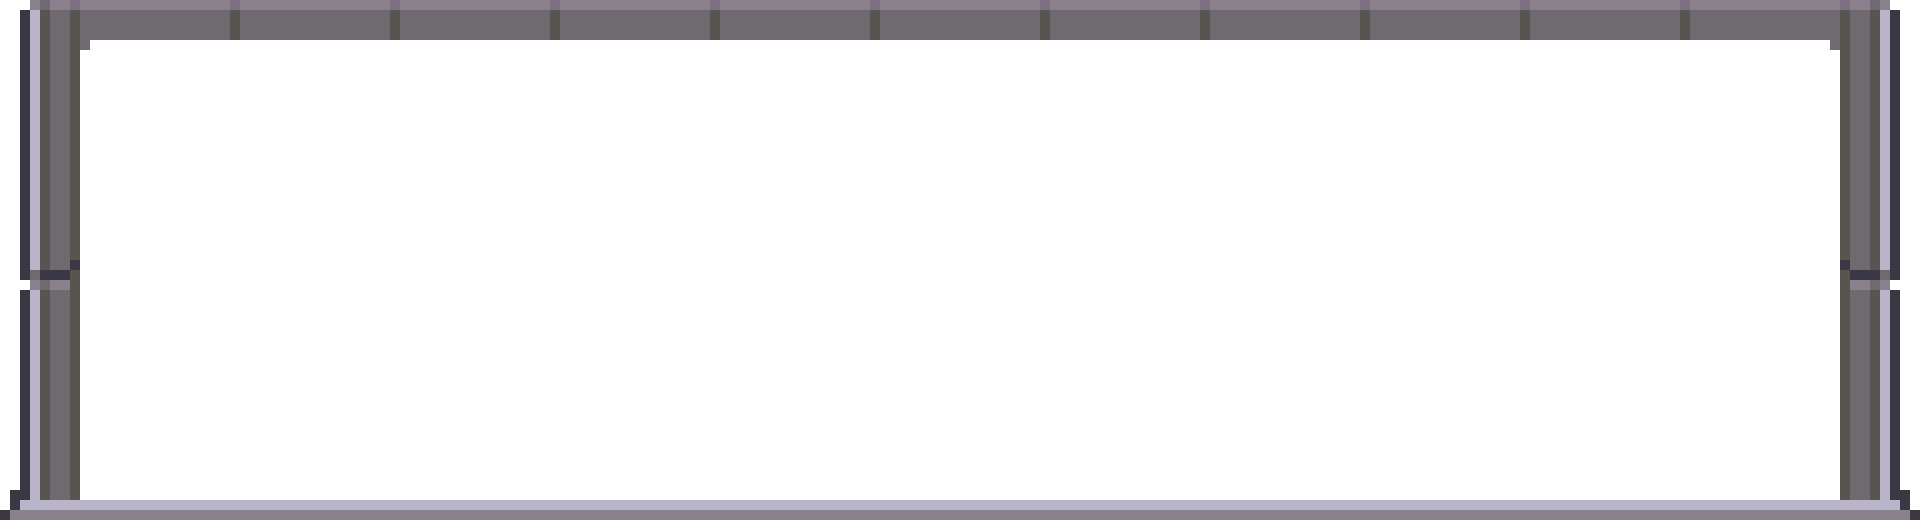
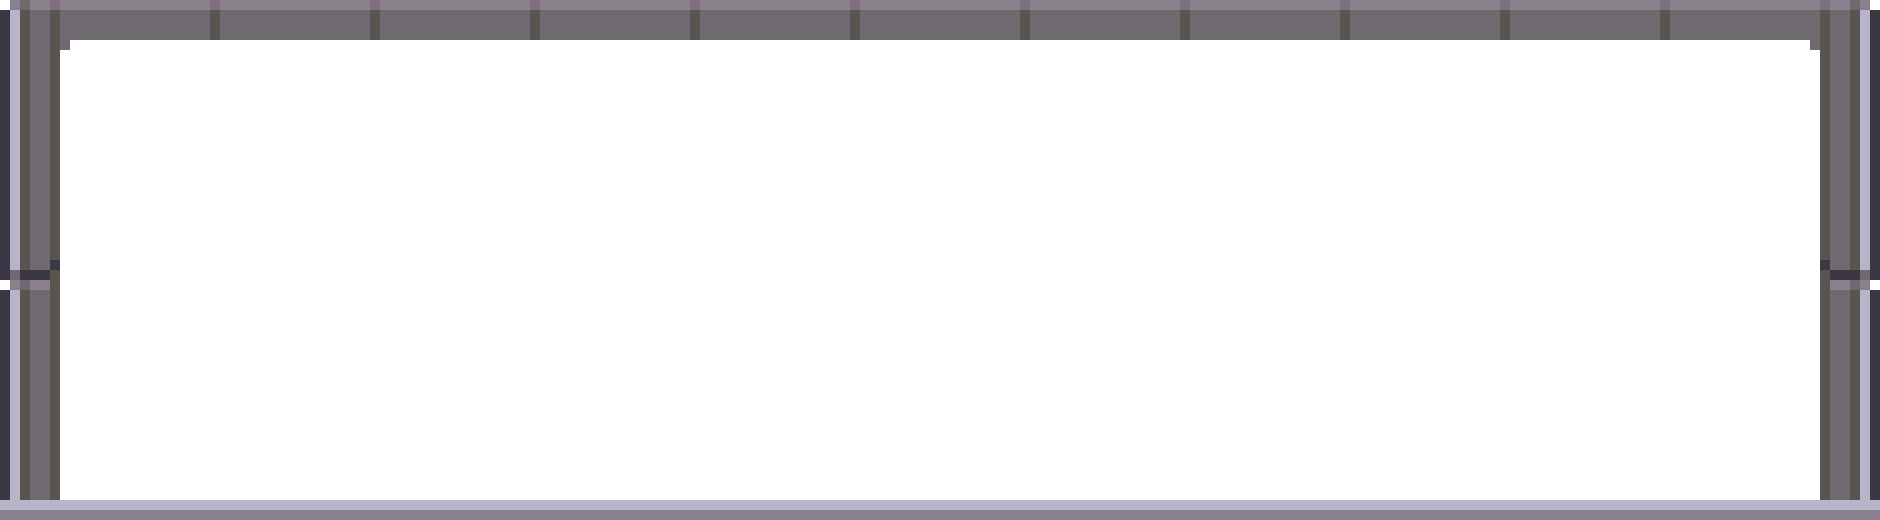
add foundation

diff --git a/src/components/Building.js b/src/components/Building.js
@@ -1,6 +1,7 @@
 //building exterior
 import Wall from '../assets/building/wall.png'
 import TopSection from '../assets/building/topSection.png'
+import BottomWall from '../assets/building/bottomWall.png'
 import BottomSection from '../assets/building/bottomSection.png'
 import roofTopLightsOff from '../assets/building/roofTopLightsOff.png'
 import roofTopLightsOn from '../assets/building/roofTopLightsOn.png'
@@ -35,8 +36,8 @@ export default function Building({timeOfDay}) {
             <Floor timeOfDay={timeOfDay} borderImg={Wall} backgroundImgDay={room3_lightsOff} backgroundImgNight={room3_lightsOn} />
             <Floor timeOfDay={timeOfDay} borderImg={Wall} backgroundImgDay={room2_lightsOff} backgroundImgNight={room2_lightsOn} />
             <Floor timeOfDay={timeOfDay} borderImg={Wall} backgroundImgDay={room1_lightsOff} backgroundImgNight={room1_lightsOn} />
-            <Floor timeOfDay={timeOfDay} borderImg={Wall} backgroundImgDay={lobbyLightsOff} backgroundImgNight={lobbyLightsOn} />
-            <img className="w-full" src={BottomSection} alt="building bottom" />
+            <Floor timeOfDay={timeOfDay} borderImg={BottomWall} backgroundImgDay={lobbyLightsOff} backgroundImgNight={lobbyLightsOn} />
+            <img className="w-full transform scale-x-105" src={BottomSection} alt="building bottom" />
         </div>
     )
 }
